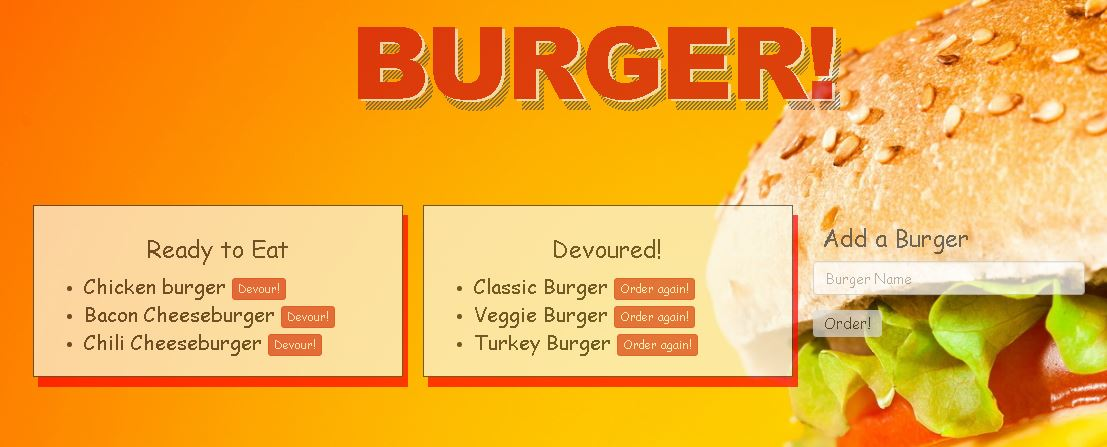
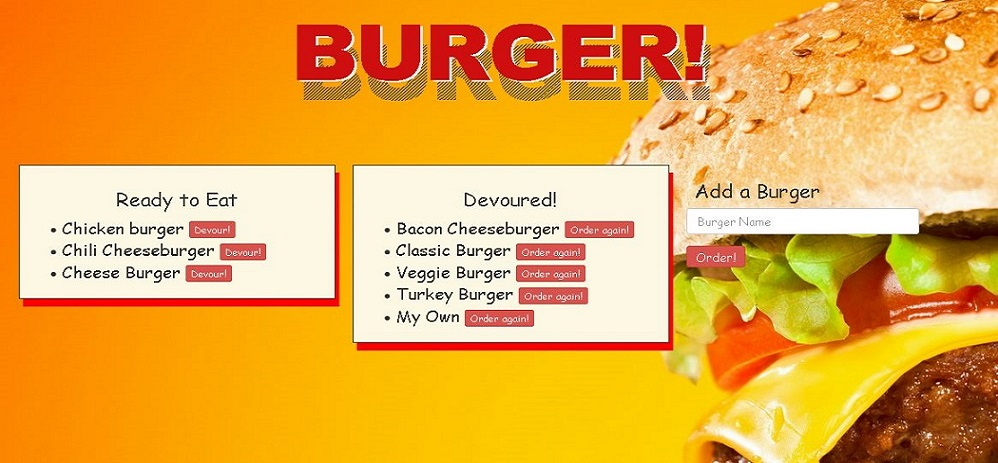
added p2

diff --git a/index.html b/index.html
@@ -499,42 +499,7 @@
                         </div>
                     </div>
                     <!-- end gallery item -->
-                    <div class="col-md-4 items graphic develop">
-                        <div class="card">
-                            <div class="card-header text-center pb-0 mb-0">
-                                <p>Restaurant Inspection Portal</p>
-                            </div>
-                            <div class="card-body">
-                                <img src="./assets/images/restaurantProj.JPG" alt="image" width="300" height="200">
-                                <p class="card-text mt-1 text-left">
-                                    The Restaurant Inspection web portal displays the inspection data using data.sfgov
-                                    API.
-                                    A very comprehensive table format data with contextual text score risk category and
-                                    violation description.
-                                    App also shows the location using google map.
-                                </p>
-                                <div class="tags mt-2">
-                                    <div class="tag is-dark">JQuery</div>
-                                    <div class="tag is-dark">Rest API</div>
-                                    <div class="tag is-dark">Firebase</div>
-                                    <div class="tag is-dark">Bootstrap</div>
-                                    <div class="tag is-dark">AJAX</div>
-                                    <div class="tag is-dark">Moment</div>
-                                </div>
-
-
-                                <div class="card-footer text-muted  bg-extra-medium-gray">
-                                    <span class="text-left"> <a href="https://github.com/Mallika1/bootccamp-p1"
-                                            target="_blank"><i class="fab fa-github"></i>View Source</a></span>
-                                    <span class="text-right ml-5"><a
-                                            href="https://mallika1.github.io/bootccamp-p1/index.html"
-                                            target="_blank">Live Demo</a></span>
-
-                                </div>
-                            </div>
-
-                        </div>
-                    </div>
+                   
 
                     <div class="col-md-4 items design">
                         <div class="card">
@@ -616,9 +581,9 @@
                                 <p>Burger </p>
                             </div>
                             <div class="card-body">
-                                <img src="./assets/images/burger.jpg" alt="image" width="300" height="200">
+                                <img src="./assets/images/burger.jpg" alt="image" >
                                 <p class="card-text mt-1 text-left">
-                                    A burger logger utilizes MySQL, Express, and Handlebars to allow users to create, update, and read burgers from the database.
+                                    A burger logger utilizes MySQL, Express, and Handlebars to allow users to create, update, and read burgers from the database.Two table shows Ready to eat and devoured burgers.
                                 </p>
                                 <div class="tags mt-2">
                                     <div class="tag is-dark">Javascript</div>
@@ -630,7 +595,7 @@
                                   
 									<div class="tag is-dark">MVC Framework</div>
 									<div class="tag is-dark">MySQL</div>
-									<div class="tag is-dark">Object Relation Mapping(ORM)</div>
+									<!-- <div class="tag is-dark">Object Relation Mapping(ORM)</div> -->
                                   
                                 </div>
 
@@ -640,6 +605,43 @@
                                     <span class="text-right ml-5"><a
                                             href="https://mighty-refuge-53945.herokuapp.com"
                                             target="_blank">Live Demo</a></span>
+                                </div>
+                            </div>
+
+                        </div>
+                    </div>
+
+                    <div class="col-md-4 items graphic develop">
+                        <div class="card">
+                            <div class="card-header text-center pb-0 mb-0">
+                                <p>Restaurant Inspection Portal</p>
+                            </div>
+                            <div class="card-body">
+                                <img src="./assets/images/restaurantProj.JPG" alt="image" width="300" height="200">
+                                <p class="card-text mt-1 text-left">
+                                    The Restaurant Inspection web portal displays the inspection data using data.sfgov
+                                    API.
+                                    A very comprehensive table format data with contextual text score risk category and
+                                    violation description.
+                                    App also shows the location using google map.
+                                </p>
+                                <div class="tags mt-2">
+                                    <div class="tag is-dark">JQuery</div>
+                                    <div class="tag is-dark">Rest API</div>
+                                    <div class="tag is-dark">Firebase</div>
+                                    <div class="tag is-dark">Bootstrap</div>
+                                    <div class="tag is-dark">AJAX</div>
+                                    <div class="tag is-dark">Moment</div>
+                                </div>
+
+
+                                <div class="card-footer text-muted  bg-extra-medium-gray">
+                                    <span class="text-left"> <a href="https://github.com/Mallika1/bootccamp-p1"
+                                            target="_blank"><i class="fab fa-github"></i>View Source</a></span>
+                                    <span class="text-right ml-5"><a
+                                            href="https://mallika1.github.io/bootccamp-p1/index.html"
+                                            target="_blank">Live Demo</a></span>
+
                                 </div>
                             </div>
 
